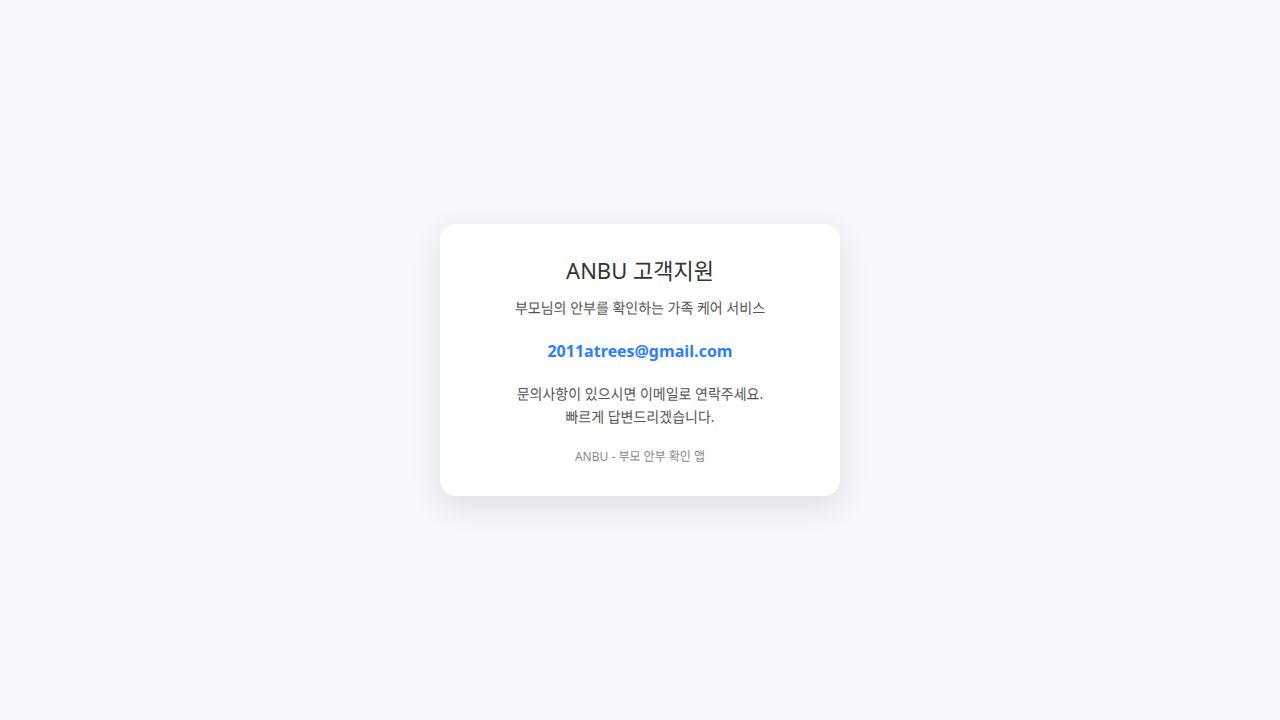
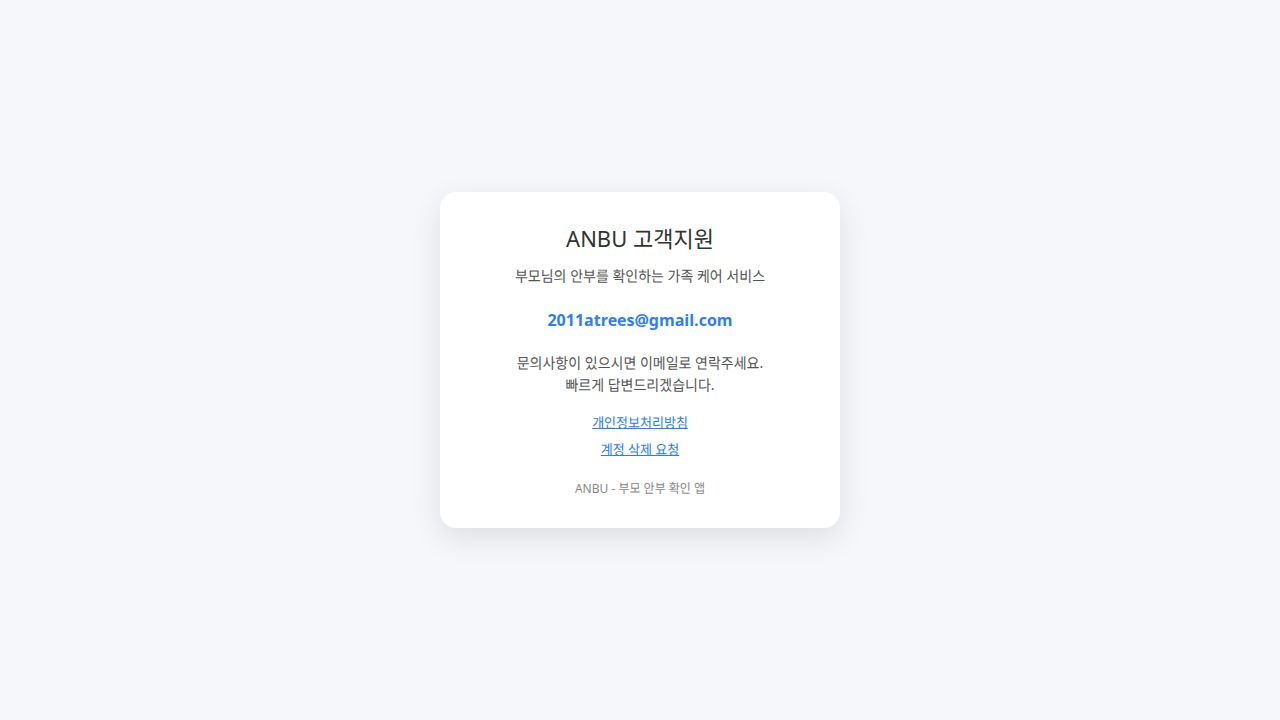
Add account deletion request page to customer support
Adds a new route and component for the account deletion request page, and a standalone HTML file for the same purpose. Also updates the customer support page to include a link to the new account deletion request page.

Replit-Commit-Author: Agent
Replit-Commit-Session-Id: 191efecf-47b9-40d3-9ac5-b371da9dbb31
Replit-Commit-Checkpoint-Type: full_checkpoint
Replit-Commit-Event-Id: 931beb07-6584-4b7f-8883-993636172855
Replit-Commit-Screenshot-Url: https://storage.googleapis.com/screenshot-production-us-central1/27fd6675-4d2d-4878-b38a-9a864532b770/191efecf-47b9-40d3-9ac5-b371da9dbb31/RQgyZTn
Replit-Helium-Checkpoint-Created: true

Changed region(s): [[0.4062, 0.3056, 0.5938, 0.6417], [0.3438, 0.6722, 0.6562, 0.7028]]

diff --git a/artifacts/support/src/App.tsx b/artifacts/support/src/App.tsx
@@ -43,16 +43,24 @@ function SupportPage() {
           빠르게 답변드리겠습니다.
         </p>
 
-        <Link href="/privacy" style={{
-          display: "inline-block",
-          marginTop: "16px",
-          color: "#2b7cff",
-          fontSize: "13px",
-          textDecoration: "underline",
-          cursor: "pointer",
-        }}>
-          개인정보처리방침
-        </Link>
+        <div style={{ marginTop: "16px", display: "flex", flexDirection: "column", gap: "8px", alignItems: "center" }}>
+          <Link href="/privacy" style={{
+            color: "#2b7cff",
+            fontSize: "13px",
+            textDecoration: "underline",
+            cursor: "pointer",
+          }}>
+            개인정보처리방침
+          </Link>
+          <Link href="/account-delete" style={{
+            color: "#2b7cff",
+            fontSize: "13px",
+            textDecoration: "underline",
+            cursor: "pointer",
+          }}>
+            계정 삭제 요청
+          </Link>
+        </div>
 
         <p style={{ marginTop: "20px", fontSize: "12px", color: "#888" }}>
           ANBU - 부모 안부 확인 앱
@@ -143,11 +151,77 @@ function PrivacyPage() {
   );
 }
 
+function AccountDeletePage() {
+  return (
+    <div style={{
+      margin: 0,
+      fontFamily: "-apple-system, BlinkMacSystemFont, 'Segoe UI', Roboto, sans-serif",
+      background: "#f5f7fa",
+      display: "flex",
+      justifyContent: "center",
+      minHeight: "100vh",
+      padding: "20px",
+      boxSizing: "border-box",
+    }}>
+      <div style={{
+        background: "white",
+        padding: "30px",
+        borderRadius: "16px",
+        boxShadow: "0 10px 30px rgba(0,0,0,0.1)",
+        maxWidth: "600px",
+        width: "100%",
+        lineHeight: 1.6,
+      }}>
+        <h1 style={{ fontSize: "22px", color: "#333", marginBottom: "20px" }}>
+          ANBU 계정 삭제 요청
+        </h1>
+
+        <p style={{ color: "#555", fontSize: "14px" }}>
+          계정 삭제를 원하시면 아래 이메일로 요청해주세요.
+        </p>
+
+        <div style={{
+          margin: "20px 0",
+          fontWeight: "bold",
+          color: "#2b7cff",
+          fontSize: "16px",
+        }}>
+          이메일: 2011atrees@gmail.com
+        </div>
+
+        <p style={{ color: "#555", fontSize: "14px" }}>
+          요청 시 아래 정보를 함께 보내주세요:
+        </p>
+        <ul style={{ color: "#555", fontSize: "14px", paddingLeft: "20px" }}>
+          <li>등록된 전화번호</li>
+          <li>사용자 이름</li>
+        </ul>
+
+        <p style={{ color: "#555", fontSize: "14px", marginTop: "16px" }}>
+          요청 접수 후 최대 7일 이내 삭제 처리됩니다.
+        </p>
+
+        <div style={{ marginTop: "30px", textAlign: "center" }}>
+          <Link href="/" style={{
+            color: "#2b7cff",
+            fontSize: "14px",
+            textDecoration: "underline",
+            cursor: "pointer",
+          }}>
+            ← 고객지원으로 돌아가기
+          </Link>
+        </div>
+      </div>
+    </div>
+  );
+}
+
 function App() {
   return (
     <WouterRouter base={import.meta.env.BASE_URL.replace(/\/$/, "")}>
       <Route path="/" component={SupportPage} />
       <Route path="/privacy" component={PrivacyPage} />
+      <Route path="/account-delete" component={AccountDeletePage} />
     </WouterRouter>
   );
 }

diff --git a/account-delete.html b/account-delete.html
@@ -1,0 +1,24 @@
+<!DOCTYPE html>
+<html lang="ko">
+<head>
+  <meta charset="UTF-8">
+  <title>계정 삭제 요청</title>
+</head>
+<body style="font-family: sans-serif; padding:20px;">
+
+<h2>ANBU 계정 삭제 요청</h2>
+
+<p>계정 삭제를 원하시면 아래 이메일로 요청해주세요.</p>
+
+<p><strong>이메일: 2011atrees@gmail.com</strong></p>
+
+<p>요청 시 아래 정보를 함께 보내주세요:</p>
+<ul>
+  <li>등록된 전화번호</li>
+  <li>사용자 이름</li>
+</ul>
+
+<p>요청 접수 후 최대 7일 이내 삭제 처리됩니다.</p>
+
+</body>
+</html>
